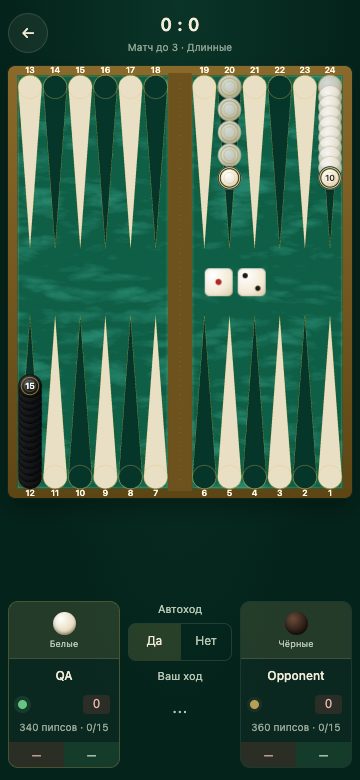
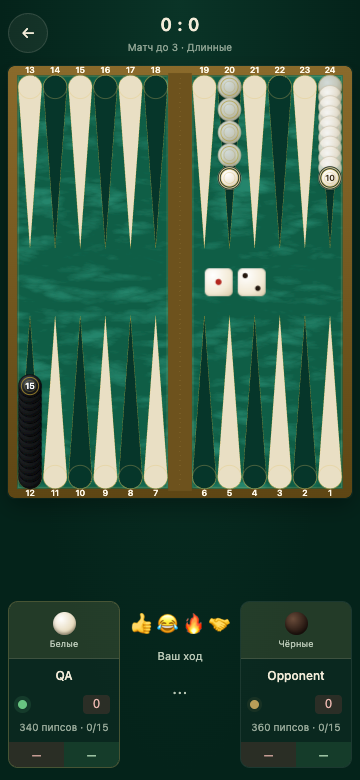
feat(web): center mobile chat and quick reactions

Changed region(s): [[0.3361, 0.7692, 0.6417, 0.8923]]

diff --git a/apps/web/src/screens/Game.tsx b/apps/web/src/screens/Game.tsx
@@ -468,7 +468,7 @@ export function GameScreen({ onExit }: { onExit: () => void }) {
             {m.crawford ? ` · ${T.crawford}` : ''}
           </small>
         </div>
-        {g.mode === 'online' ? (
+        {g.mode === 'online' && !compact ? (
           <button className="icon-btn" onClick={() => setChatOpen((o) => !o)} aria-label={T.chat}>
             💬{g.chat.length > 0 && !chatOpen ? <i className="dot" /> : null}
           </button>
@@ -642,11 +642,12 @@ export function GameScreen({ onExit }: { onExit: () => void }) {
       <div className={compact ? 'mobile-hud' : 'desktop-hud'}>
       {compact && playerBar(viewer, true)}
       <div className="controls">
-        {compact && <div className="auto-move" role="group" aria-label={T.autoConfirm}>
-          <span title={T.autoConfirm}>{T.autoMove}</span>
-          <div className="auto-choices">
-            <button type="button" aria-pressed={st.autoConfirm} onClick={() => st.set({ autoConfirm: true })}>{T.yes}</button>
-            <button type="button" aria-pressed={!st.autoConfirm} onClick={() => st.set({ autoConfirm: false })}>{T.no}</button>
+        {compact && <div className="quick-social">
+          {g.mode === 'online' && <button className="btn quick-chat" onClick={() => setChatOpen((open) => !open)} aria-label={T.chat}>
+            💬 {T.chat}{g.chat.length > 0 && !chatOpen && <i className="dot" />}
+          </button>}
+          <div className="quick-reactions">
+            {(['👍', '😂', '🔥', '🤝'] as const).map((emoji) => <button key={emoji} type="button" onClick={() => ctrl.emoji(emoji)} aria-label={emoji}>{emoji}</button>)}
           </div>
         </div>}
         <span className="status">{statusText}</span>

diff --git a/apps/web/src/styles.css b/apps/web/src/styles.css
@@ -922,8 +922,9 @@ input:focus {
 .move-time { background: rgba(67,140,85,.20); color: #b0d6b4; }
 .move-time.low { color: #ffb2a7; }
 .mobile-hud .controls { justify-content: flex-start; gap: 7px; }
-.auto-move { width: 100%; text-align: center; color: var(--muted); font-size: 11px; }
-.auto-choices { display: grid; grid-template-columns: 1fr 1fr; margin-top: 6px; border: 1px solid var(--panel-b); border-radius: 8px; overflow: hidden; }
-.auto-choices button { min-width: 0; min-height: 36px; padding: 6px 2px; border: none; background: transparent; font-size: 12px; cursor: pointer; }
-.auto-choices button + button { border-left: 1px solid var(--panel-b); }
-.auto-choices button[aria-pressed="true"] { background: color-mix(in srgb, var(--accent) 16%, transparent); color: var(--text); }
+.quick-social { width: 100%; }
+.mobile-hud .controls .quick-chat { position: relative; min-height: 40px; background: var(--panel); }
+.quick-reactions { display: grid; grid-template-columns: repeat(4, minmax(0, 1fr)); gap: 0; margin-top: 4px; }
+.quick-reactions button { min-width: 0; min-height: 36px; padding: 4px 0; border: none; border-radius: 6px; background: transparent; font-size: 18px; cursor: pointer; touch-action: manipulation; }
+.quick-reactions button:hover { background: var(--panel); }
+.quick-reactions button:active { transform: scale(.94); }

diff --git a/docs/superpowers/plans/2026-11-15-mobile-ux-rejoin.md b/docs/superpowers/plans/2026-11-15-mobile-ux-rejoin.md
@@ -522,3 +522,8 @@ Round 3 (Opus, fresh context) — 0 P0/P1; rounds 1-2 fixes confirmed by executi
 - Phone player cards now follow the reference hierarchy without an avatar or avatar placeholder: piece/color band, name, active-turn light and match score, pip/off metadata, then separate bank/move timer cells. In minimal theme the coral side is explicitly labeled Красные/Red; other themes use Белые/Чёрные. Clock cells use actual server clocks and show a dash when disabled. Center controls include a Yes/No auto-confirm setting with compact Автоход label and explicit auto-confirm accessibility label.
 - Board point bases now use circular arcs with24 round checker seats. Point numbers are22-unit semibold high-contrast theme text instead of faint12-unit labels. External board position/size/proportions unchanged: at360x780 top66.1875,width344,height431.953125; bottom HUD gap12px, controls remain between cards. No avatars added.
 - Web typecheck/build/diff check EXIT=0. Hint contrast15 pairs passed; point-number contrast6 pairs, minimum4.78:1. Phone six-state matrix21 pages: controls between/same row, exact board bounds and bottom gap preserved, console errors0, EXIT=0. Additional6 live online phone pages:24 seats and24 numbers in each theme, actual clocks with supported bank180s/move15s display3:00/0:15; Yes/No persisted false/true, console errors0, EXIT=0. Full e2e EXIT=0: undo restored354 pips; reconnect/rejected move, stack/ghost/tray, rejoin and shake gates green; online pips149/136; ERRORS=[]. Refreshed centered-* states and added reference-360-{theme}.png. No push/deploy.
+
+### Owner revision: central chat and four quick reactions; hide auto-move UI (2026-11-15)
+
+- Moved the phone online chat button from the header to the center HUD with four quick reactions: 👍 😂 🔥 🤝. Kept the full reaction menu under More. Removed the visible auto-confirm Yes/No group and its CSS; saved settings and automatic turn behavior remain unchanged. Desktop chat unchanged. Board untouched.
+- Web typecheck/build/diff checks EXIT=0. Phone state matrix21 pages passed: center controls remain between cards, bottom gap12px, board top66.1875,width344,height431.953125 unchanged; console errors0. On6 isolated online phone pages across3 themes, tested opening central chat, sending/receiving a message and all4 reactions; header chat and auto-move group absent; console errors0, EXIT=0. Initial reaction test used300ms spacing and hit the existing700ms server emoji throttle; corrected test spacing to800ms, without changing server behavior. Added social-360-{theme}.png and refreshed centered-* states. No push/deploy.
